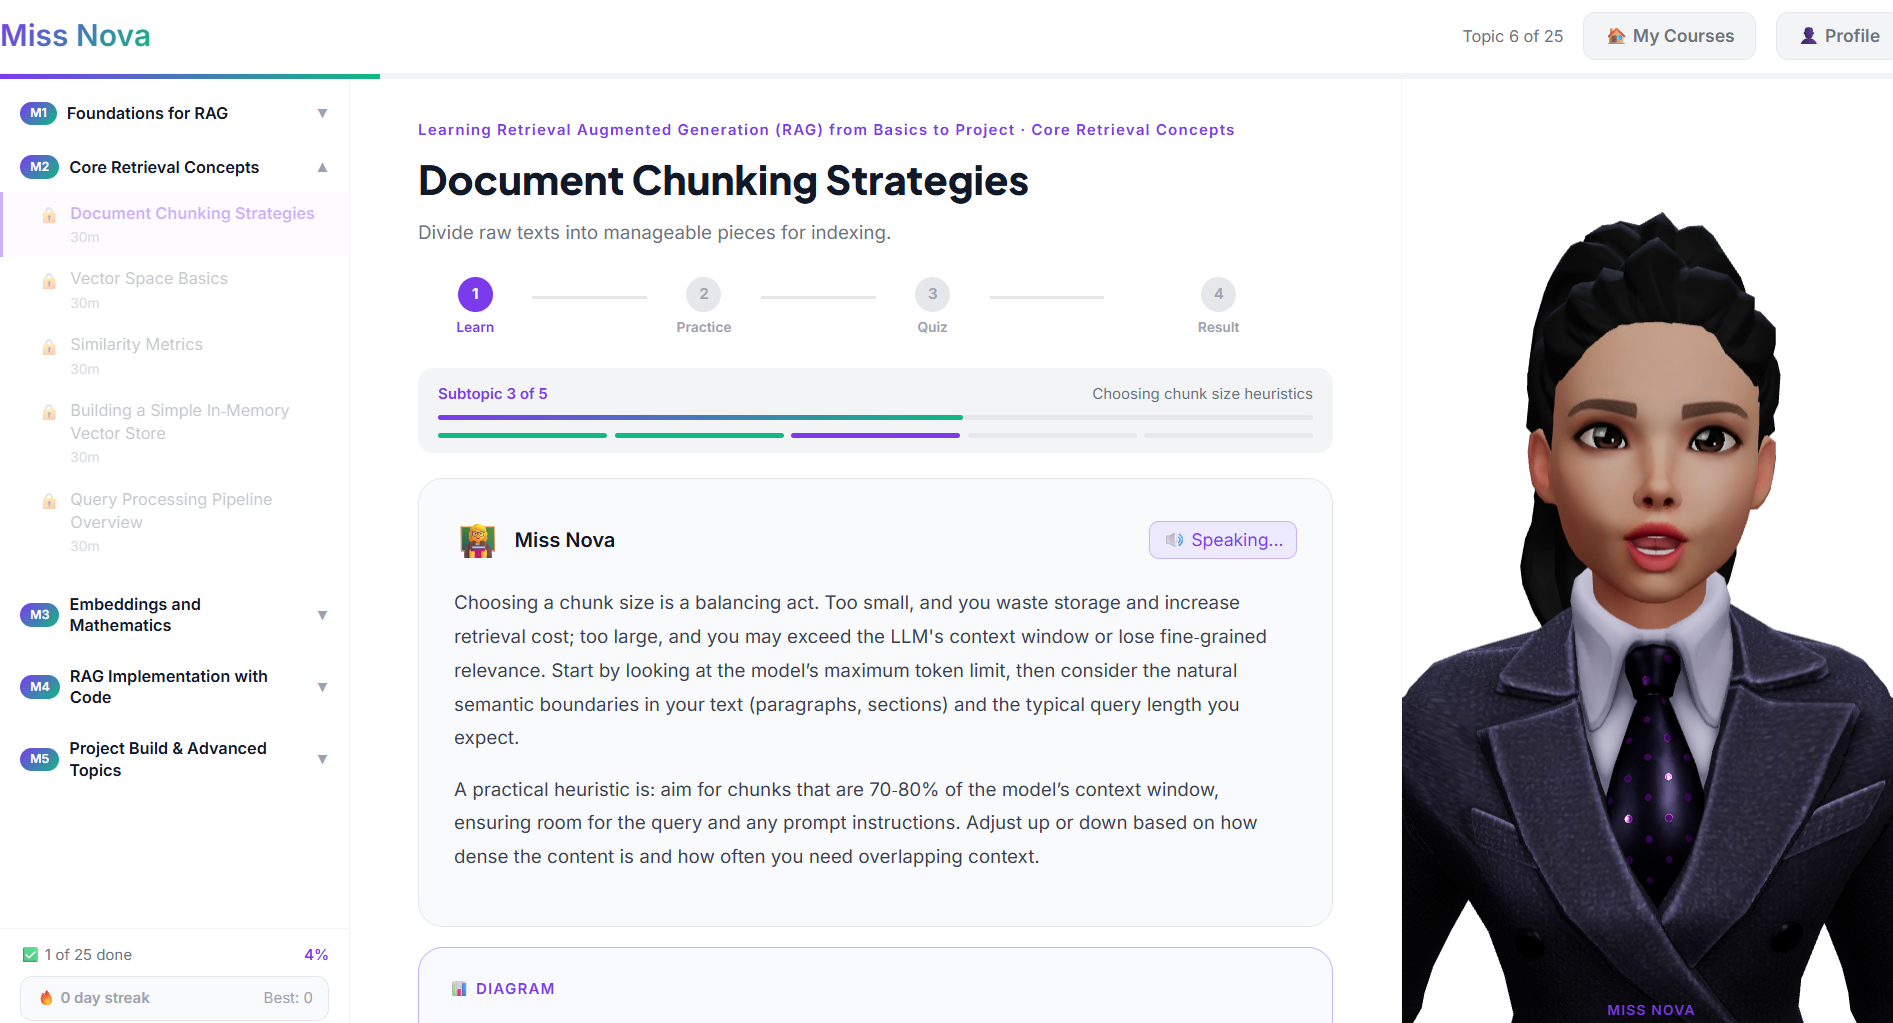
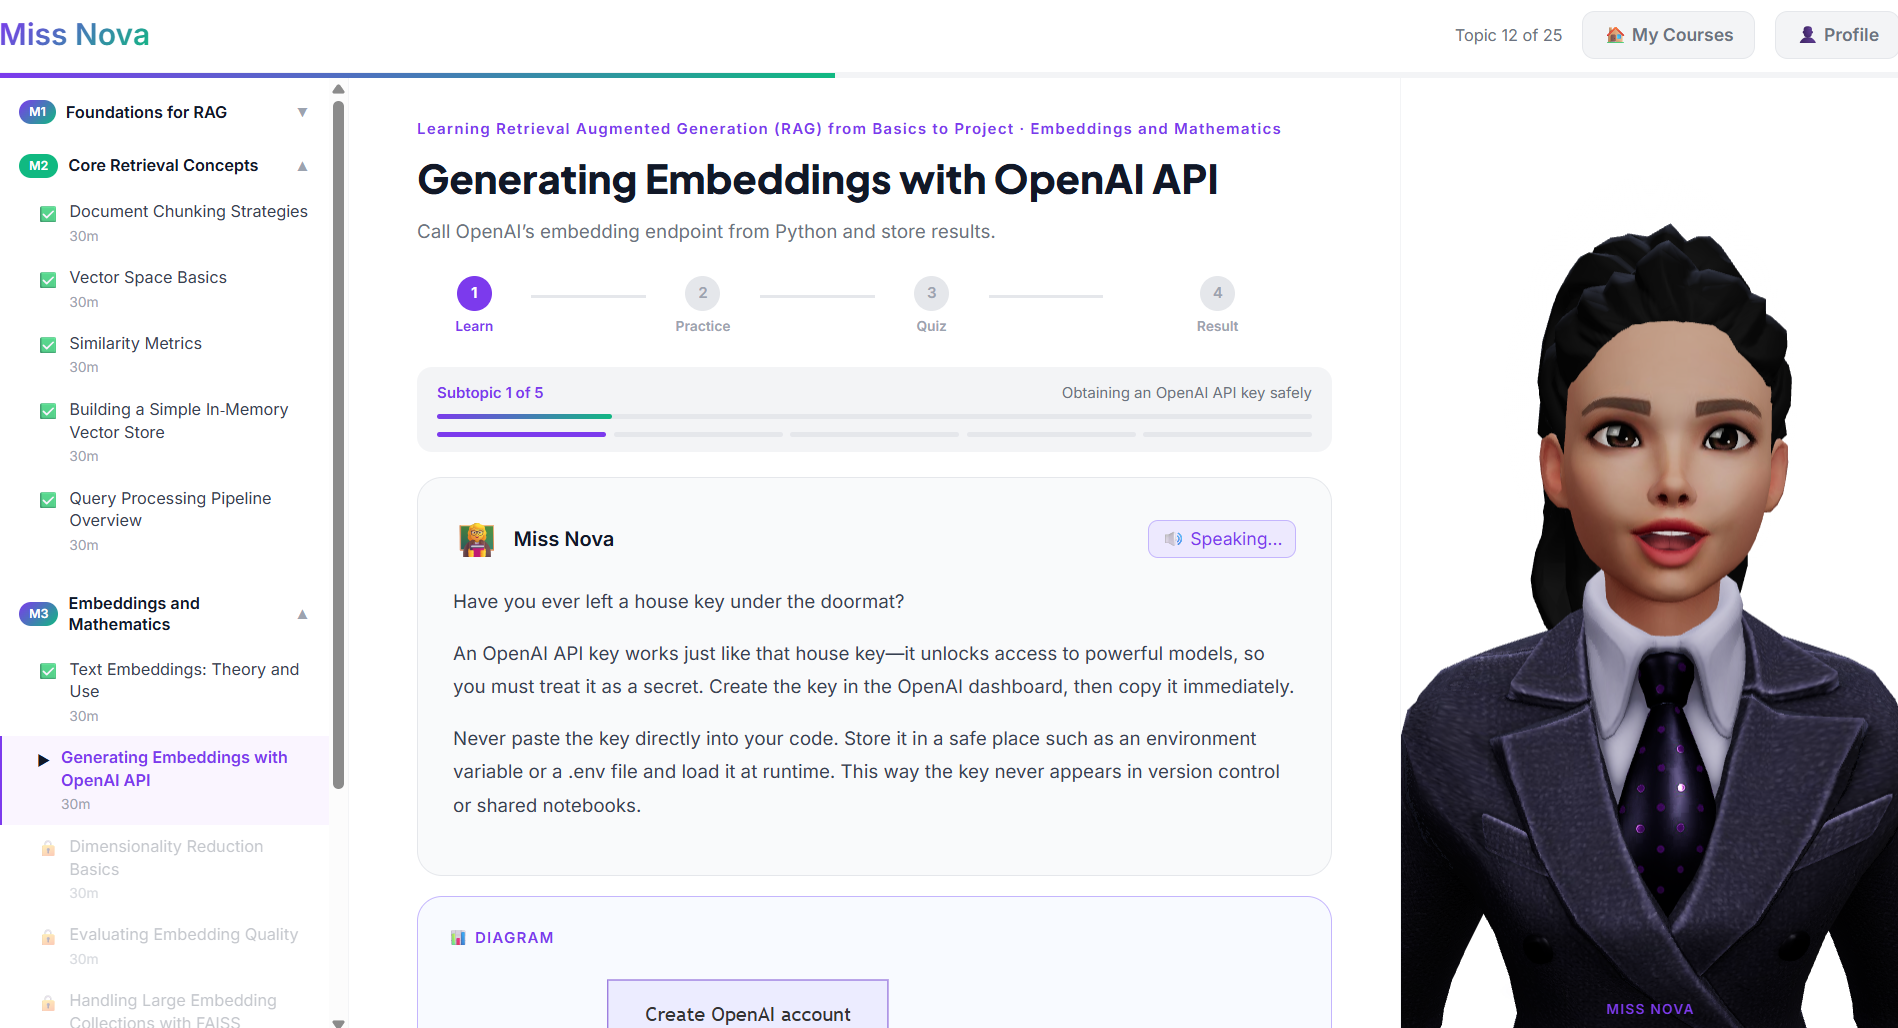
docs: add screenshots + update README project structure

diff --git a/README.md b/README.md
@@ -223,42 +223,64 @@ xapi_statements (id, user_id, verb, object_type, object_id, object_name,
 
 ```
 3D-AI-Tutor/
+├── screenshots/                     # README screenshots
 ├── frontend/
+│   ├── index.html                   # Pyodide CDN script tag
+│   ├── vercel.json                  # client-side routing fix
 │   └── src/
 │       ├── App.jsx                  # auth + routing + teaching mode
+│       ├── main.jsx                 # React root + BrowserRouter
+│       ├── index.css                # brand system + CSS vars
 │       ├── components/
-│       │   ├── Avatar.jsx           # RPM 3D avatar with mood + lipsync
-│       │   ├── Sidebar.jsx          # module/topic nav with lock states
-│       │   └── TopicView.jsx        # full teaching loop (6 phases)
+│       │   ├── Avatar.jsx           # RPM 3D avatar, mood + lipsync
+│       │   ├── Sidebar.jsx          # module/topic nav, lock states
+│       │   ├── TopicView.jsx        # full teaching loop (6 phases)
+│       │   ├── Prerequisites.jsx    # tool setup guide screen
+│       │   └── CertificateActions.jsx  # download + LinkedIn + copy
 │       ├── hooks/
 │       │   ├── useCourseProgress.js # localStorage + Neon DB sync
 │       │   └── useSpeech.js         # TTS + Whisper + cleanForSpeech()
-│       └── pages/
-│           ├── LandingPage.jsx      # public landing with live Nova
-│           ├── AuthPage.jsx         # Supabase login/signup
-│           ├── MyCoursesPage.jsx    # multi-course dashboard
-│           ├── ProfilePage.jsx      # stats, certs, activity
-│           ├── PaymentGate.jsx      # Razorpay + promo codes
-│           ├── BaselineAssessment.jsx
-│           └── AdminPage.jsx        # password-protected dashboard
+│       ├── lib/
+│       │   ├── supabase.js          # Supabase client
+│       │   └── xapi.js              # xAPI tracking helper
+│       ├── pages/
+│       │   ├── LandingPage.jsx      # public landing with live Nova
+│       │   ├── AuthPage.jsx         # Supabase login/signup
+│       │   ├── MyCoursesPage.jsx    # multi-course dashboard (max 3)
+│       │   ├── ProfilePage.jsx      # stats, certs, activity, confidence
+│       │   ├── PaymentGate.jsx      # Razorpay Rs.1 + promo codes
+│       │   ├── BaselineAssessment.jsx  # 5 MCQ + module skip
+│       │   ├── AdminPage.jsx        # password-protected dashboard
+│       │   └── VerifyPage.jsx       # public certificate verify
+│       └── utils/
+│           └── session.js           # session UUID generator
 │
-└── backend/
-    ├── main.py                      # FastAPI + CORS + all routers
-    ├── agents/
-    │   ├── roadmap_agent.py         # curriculum generation
-    │   ├── teaching_agent.py        # subtopic-aware lesson + Kroki
-    │   ├── quiz_agent.py            # generate + evaluate + repair
-    │   ├── baseline_agent.py        # 5 MCQ assessment
-    │   └── prerequisites_agent.py   # tool setup guide
-    └── routes/
-        ├── teaching.py              # teach + quiz + practice + progress
-        ├── payments.py              # Razorpay + promo codes
-        ├── certificate.py           # PDF + QR + verify
-        ├── courses.py               # CRUD for user courses
-        ├── profile.py               # all user stats in one endpoint
-        ├── streak.py                # daily streak
-        ├── confidence.py            # spaced repetition
-        └── xapi.py                  # learning analytics + admin
+├── backend/
+│   ├── main.py                      # FastAPI + CORS + all routers
+│   ├── requirements.txt             # Render deployment deps
+│   ├── agents/
+│   │   ├── roadmap_agent.py         # curriculum generation
+│   │   ├── teaching_agent.py        # subtopic-aware lesson + Kroki
+│   │   ├── quiz_agent.py            # generate + evaluate + repair
+│   │   ├── baseline_agent.py        # 5 MCQ assessment
+│   │   └── prerequisites_agent.py   # tool setup guide
+│   ├── db/
+│   │   ├── neon.py                  # PostgreSQL connection + reconnect
+│   │   └── queries.py               # DB queries
+│   └── routes/
+│       ├── chat.py                  # POST /api/roadmap
+│       ├── teaching.py              # teach + quiz + practice + progress
+│       ├── payments.py              # Razorpay + promo codes
+│       ├── baseline.py              # baseline assessment
+│       ├── certificate.py           # PDF + QR + verify
+│       ├── courses.py               # CRUD for user courses
+│       ├── profile.py               # all user stats in one endpoint
+│       ├── streak.py                # daily streak
+│       ├── confidence.py            # spaced repetition
+│       └── xapi.py                  # learning analytics + admin
+│
+├── README.md
+└── .gitignore
 ```
 
 ---

diff --git a/PROGRESS.md b/PROGRESS.md
@@ -22,8 +22,8 @@
 
 ## Current Status
 
-Last worked on: September 5, 2026
-Next session goal: User Profile page — achievements, badges, certificates list. README for GitHub.
+Last worked on: September 6, 2026
+Next session goal: Take screenshots for README, add forgot password to AuthPage, deploy and verify all features on live site
 
 ---
 
@@ -348,6 +348,8 @@ courses — added user_id TEXT, title TEXT, goal TEXT, level TEXT, is_completed 
 | 54 | current_subtopic not saved when clicking My Courses — only saved on Next/Prev | Track currentSubtopicIdx in App.jsx state, save to DB on My Courses button click |
 | 55 | load_progress_route used undefined `p` instead of `result` | Use result["key"] dict access throughout load_progress_route |
 | 56 | courses.py had unused variables roadmap_modules and roadmap_topics | Remove dead variable assignments — ruff catches these |
+| 58 | profile.py queried topic_title column which doesn't exist in topic_confidence | Use topic_key only, derive display name with .replace("-"," ").title() |
+| 59 | profile.py used jsonb_array_length on completed_topics which is text[] not jsonb | Use array_length(completed_topics, 1) instead |
 ---
 
 ## Coding Rules (Follow Every Session)
@@ -394,3 +396,4 @@ courses — added user_id TEXT, title TEXT, goal TEXT, level TEXT, is_completed 
 | Sep 1, 2026 | Landing page with 3D avatar speaking intro, admin link in nav, public stats, auth redirect flow. | cd02a07 |
 | Sep 2, 2026 | My Courses dashboard (max 3 courses, delete, continue). Subtopic persistence + navigation arrows. Resume from exact subtopic. | pending |
 | Sep 5, 2026 | Subtopic resume flow complete — save current_subtopic to DB on navigate + page leave. Fixed ruff errors in courses.py and teaching.py. | 24a3897 |
+| Sep 6, 2026 | Profile page complete — hero, stats, certificates, activity, confidence map. Fixed profile.py DB queries (topic_title column, jsonb vs array). README.md added. vercel.json routing fix. | 94f2e35 |
